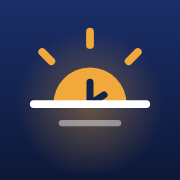
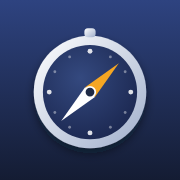
앱 아이콘을 '시간 나침반'으로 교체 (웹·아이폰 아이콘, 시작 화면)
Claude-Session: https://claude.ai/code/session_01D9Ws77kHWm8JQsFMFmxbSa

Changed region(s): [[0.1667, 0.1389, 0.8333, 0.8611]]

diff --git a/sw.js b/sw.js
@@ -1,5 +1,5 @@
 // 마이플래너 서비스워커 — 화면 파일 캐시 (웹 전용, 앱에서는 등록하지 않음)
-const CACHE = 'myplanner-v49';
+const CACHE = 'myplanner-v50';
 const FILES = ['./', './index.html', './css/app.css', './js/defaults.js', './js/icons.js', './js/core.js', './js/pack.js', './js/planner.js', './js/recur.js', './js/parse.js', './js/routes.js', './js/weather.js', './js/live.js', './js/bus.js', './js/cloud.js', './js/share.js', './js/demo.js', './js/day.js', './js/assistant.js', './js/alarm.js', './js/home.js', './js/register.js', './js/timeline.js', './js/market.js', './js/app.js', './icon.svg', './icon-192.png', './apple-touch-icon.png', './manifest.json', './img/hero-alarm.png', './img/icons/register.png', './img/icons/community.png', './img/icons/message.png', './img/icons/calendar.png', './img/icons/market.png', './img/icons/group.png', './img/icons/settings.png', './img/icons/timeline.png', './img/icons/bus.png', './img/icons/subway.png', './img/icons/car.png', './img/icons/taxi.png', './img/icons/walk.png', './img/icons/train.png', './img/icons/plane.png', './img/icons/home.png', './img/icons/pin.png'];
 self.addEventListener('install', e => { e.waitUntil(caches.open(CACHE).then(c => c.addAll(FILES)).then(() => self.skipWaiting())); });
 self.addEventListener('activate', e => { e.waitUntil(caches.keys().then(ks => Promise.all(ks.filter(k => k !== CACHE).map(k => caches.delete(k)))).then(() => self.clients.claim())); });
